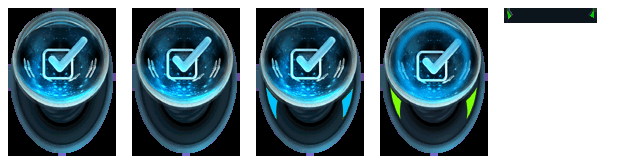
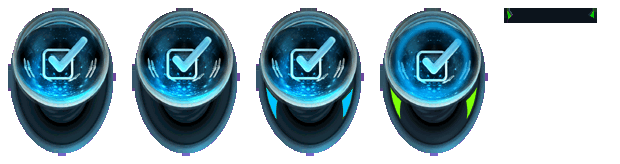
start working on menu1

Changed region(s): [[0.0, 0.4878, 0.7968, 0.9756], [0.0, 0.0305, 0.7968, 0.4268]]

diff --git a/src/Conquest/src/Frontend/Menu1OpeningPreviewScene.cs b/src/Conquest/src/Frontend/Menu1OpeningPreviewScene.cs
@@ -1,8 +1,9 @@
 using System;
+using System.Collections.Generic;
+using System.IO;
 using System.Numerics;
 using ConquestFrontierWarsRay.Core.UI;
 using ConquestFrontierWarsRay.Data;
-using ConquestFrontierWarsRay.Data.Models;
 using ConquestFrontierWarsRay.Data.Models.GT;
 using ConquestFrontierWarsRay.Data.UtfDb;
 using ConquestFrontierWarsRay.Data.VfxAnimation;
@@ -12,9 +13,12 @@ using Raylib_cs;
 namespace ConquestFrontierWarsRay;
 
 internal sealed class Menu1OpeningPreviewScene : Node2D {
+	private readonly UiEventSource _eventSource = new("Menu1OpeningEventSource");
 	private readonly LegacyMenuRoot _legacyMenuRoot = new("LegacyMenuRoot");
 
 	public Menu1OpeningPreviewScene() : base("Menu1OpeningPreviewScene") {
+		_eventSource.ScopeRoot = this;
+		AddChild(_eventSource);
 		AddChild(_legacyMenuRoot);
 
 		try {
@@ -32,8 +36,8 @@ internal sealed class Menu1OpeningPreviewScene : Node2D {
 }
 
 internal sealed class Menu1OpeningPreviewSurface : Node2D {
-	private static readonly Color ButtonMarker = new(102, 208, 142, 255);
 	private static readonly Color AnimationMarker = new(214, 120, 228, 255);
+	private readonly List<AtlasFramesResource> _atlasResources = [];
 	private readonly UtfDbRepository _utfDbRepository;
 	private readonly VfxAnimationDataRepository _vfxRepository;
 	private readonly LegacyRcStringResolver _strings;
@@ -45,29 +49,67 @@ internal sealed class Menu1OpeningPreviewSurface : Node2D {
 		_strings = LegacyRcStringResolver.LoadFromRepo();
 
 		AddStaticNode("Background", opening.Background);
-		AddButtonMarker("Single", opening.Single);
-		AddButtonMarker("Multi", opening.Multi);
-		AddButtonMarker("Intro", opening.Intro);
-		AddButtonMarker("Options", opening.Options);
-		AddButtonMarker("Help", opening.Help);
-		AddButtonMarker("Quit", opening.Quit);
+		var btnSingle = AddButtonNode("Single", opening.Single);
+		var btnMulti = AddButtonNode("Multi", opening.Multi);
+		var btnIntro = AddButtonNode("Intro", opening.Intro);
+		var btnOptions = AddButtonNode("Options", opening.Options);
+		var btnHelp = AddButtonNode("Help", opening.Help);
+		var btnQuit = AddButtonNode("Quit", opening.Quit);
 		AddStaticNode("StaticSingle", opening.StaticSingle);
 		AddStaticNode("StaticMulti", opening.StaticMulti);
 		AddStaticNode("StaticIntro", opening.StaticIntro);
 		AddStaticNode("StaticOptions", opening.StaticOptions);
 		AddStaticNode("StaticHelp", opening.StaticHelp);
-		AddAnimationMarker("AnimMedia", opening.AnimMedia);
-		AddAnimationMarker("AnimSingle", opening.AnimSingle);
-		AddAnimationMarker("AnimMulti", opening.AnimMulti);
-		AddAnimationMarker("AnimOptions", opening.AnimOptions);
-		AddAnimationMarker("AnimQuestion", opening.AnimQuestion);
+		var animMedia = AddAnimationNode("AnimMedia", opening.AnimMedia);
+		var animSingle = AddAnimationNode("AnimSingle", opening.AnimSingle);
+		var animMulti = AddAnimationNode("AnimMulti", opening.AnimMulti);
+		var animOptions = AddAnimationNode("AnimOptions", opening.AnimOptions);
+		var animQuestion = AddAnimationNode("AnimQuestion", opening.AnimQuestion);
+		ConnectButtonHover(btnSingle, animSingle);
+		ConnectButtonHover(btnMulti, animMulti);
+		ConnectButtonHover(btnIntro, animMedia);
+		ConnectButtonHover(btnOptions, animOptions);
+		ConnectButtonHover(btnHelp, animQuestion);
+		btnQuit.Activated += _ => RequestQuit();
 		AddStaticNode("StaticLegal", opening.StaticLegal);
+		AddMusic();
 	}
 
-	private void AddButtonMarker(string label, BUTTON_DATA button) {
-		var width = Math.Max(36f, button.ButtonArea.Right - button.ButtonArea.Left);
-		var height = Math.Max(18f, button.ButtonArea.Bottom - button.ButtonArea.Top);
-		AddMarker(label, new Vector2(button.XOrigin, button.YOrigin), new Vector2(width, height), ButtonMarker);
+	private void AddMusic() {
+		var audioPlayer = new AudioPlayer("AudioPlayer") {
+			Looping = true
+		};
+		var music = new NAudioStreamResource(Path.GetFullPath(Path.Join(RepoPaths.LocateAssetsRoot(), "conquest_frontier_wars_ost", "Conquest Frontier Wars soundtrack - Main Menu Screen Music.mp3")));
+		audioPlayer.SetAudio(music, true, true);
+		audioPlayer.Play();
+	}
+
+	private static void ConnectButtonHover(LegacyButtonNode button, AnimatedSprite2D? animation) {
+		if (animation is null) {
+			return;
+		}
+
+		button.Entered += _ => {
+			animation.Visible = true;
+			animation.Play();
+		};
+		button.Exited += _ => {
+			animation.Visible = false;
+			animation.Pause();
+		};
+	}
+
+	private LegacyButtonNode AddButtonNode(string label, BUTTON_DATA data) {
+		var archetype = ReadTypedEntry<GT_BUTTON>("GT_BUTTON", data.ButtonType);
+		var node = new LegacyButtonNode(label);
+
+		node.ApplyLegacyDefinition(archetype, data, _vfxRepository);
+		if (_strings.TryResolve(data.ButtonText, out var text) && !string.IsNullOrWhiteSpace(text)) {
+			node.Text = text;
+		}
+
+		AddChild(node);
+		return node;
 	}
 
 	private void AddStaticNode(string label, STATIC_DATA data) {
@@ -81,8 +123,28 @@ internal sealed class Menu1OpeningPreviewSurface : Node2D {
 		AddChild(node);
 	}
 
-	private void AddAnimationMarker(string label, ANIMATE_DATA animation) {
-		AddMarker(label, new Vector2(animation.XOrigin, animation.YOrigin), new Vector2(34f, 34f), AnimationMarker);
+	private AnimatedSprite2D? AddAnimationNode(string label, ANIMATE_DATA data) {
+		var archetype = ReadTypedEntry<GT_ANIMATE>("GT_ANIMATE", data.AnimateType);
+		var vfxData = _vfxRepository.Load();
+		if (!vfxData.TryGetAtlasByVfxShapeId(archetype.VfxType, out var atlasEntry)) {
+			AddMarker(label, new Vector2(data.XOrigin, data.YOrigin), new Vector2(34f, 34f), AnimationMarker);
+			return null;
+		}
+
+		var atlas = new AtlasFramesResource(
+			_vfxRepository.GetInterfaceAssetPath(atlasEntry.Value, metaJson: false),
+			_vfxRepository.GetInterfaceAssetPath(atlasEntry.Value, metaJson: true));
+		_atlasResources.Add(atlas);
+
+		var node = new AnimatedSprite2D(atlas.Frames, label) {
+			Position = new Vector2(data.XOrigin, data.YOrigin),
+			Pivot = Vector2.Zero,
+			Loop = true,
+			SpeedFps = 15,
+			Visible = false
+		};
+		AddChild(node);
+		return node;
 	}
 
 	private void AddMarker(string label, Vector2 position, Vector2 size, Color color) {
@@ -98,7 +160,17 @@ internal sealed class Menu1OpeningPreviewSurface : Node2D {
 	private T ReadTypedEntry<T>(string typeName, string fileName) where T : class {
 		var details = _utfDbRepository.ReadEntryDetails("GenData.db", typeName, fileName);
 		return details.TypedValue as T
-			?? throw new InvalidOperationException($"Entry '{typeName}/{fileName}' did not deserialize to {typeof(T).Name}.");
+		       ?? throw new InvalidOperationException(
+			       $"Entry '{typeName}/{fileName}' did not deserialize to {typeof(T).Name}.");
+	}
+
+	protected override void OnDispose() {
+		for (var index = _atlasResources.Count - 1; index >= 0; index--) {
+			_atlasResources[index].Dispose();
+		}
+
+		_atlasResources.Clear();
+		base.OnDispose();
 	}
 }
 

diff --git a/src/Core.UI/src/LegacyButtonNode.cs b/src/Core.UI/src/LegacyButtonNode.cs
@@ -29,6 +29,7 @@ public sealed class LegacyButtonNode : Control, IUiPointerEventHandler {
 	private GT_BUTTON_TYPE _buttonType;
 	private bool _enabled = true;
 	private bool _hovered;
+	private bool _lastHovered;
 	private bool _keyboardFocus;
 	private bool _keyboardPressed;
 	private bool _pointerPressed;
@@ -41,6 +42,9 @@ public sealed class LegacyButtonNode : Control, IUiPointerEventHandler {
 
 	public event Action<LegacyButtonNode>? Activated;
 	public event Action<LegacyButtonNode>? RepeatActivated;
+
+	public event Action<LegacyButtonNode>? Entered;
+	public event Action<LegacyButtonNode>? Exited;
 
 	public uint ControlId { get; set; }
 	public string Text { get; set; } = string.Empty;
@@ -96,6 +100,7 @@ public sealed class LegacyButtonNode : Control, IUiPointerEventHandler {
 		_enabled = enabled;
 		if (!_enabled) {
 			_hovered = false;
+			_lastHovered = _hovered;
 			_keyboardFocus = false;
 			_keyboardPressed = false;
 			_pointerPressed = false;
@@ -107,6 +112,7 @@ public sealed class LegacyButtonNode : Control, IUiPointerEventHandler {
 		_visible = visible;
 		if (!visible) {
 			_hovered = false;
+			_lastHovered = _hovered;
 			_keyboardPressed = false;
 			_pointerPressed = false;
 			_repeatAccumulator = 0f;
@@ -140,9 +146,18 @@ public sealed class LegacyButtonNode : Control, IUiPointerEventHandler {
 			case UiPointerEventKind.Enter:
 			case UiPointerEventKind.Move:
 				_hovered = HitTest(pointerEvent.Position);
+				if (!_lastHovered && _hovered) {
+					EmitEntered();
+				}
+				_lastHovered = _hovered;
 				break;
 			case UiPointerEventKind.Leave:
 				_hovered = false;
+				if (_lastHovered) {
+					EmitExited();
+				}
+
+				_lastHovered = _hovered;
 				if (!_pointerPressed) {
 					_repeatAccumulator = 0f;
 				}
@@ -256,6 +271,14 @@ public sealed class LegacyButtonNode : Control, IUiPointerEventHandler {
 
 	private void EmitActivated() {
 		Activated?.Invoke(this);
+	}
+
+	private void EmitEntered() {
+		Entered?.Invoke(this);
+	}
+
+	private void EmitExited() {
+		Exited?.Invoke(this);
 	}
 
 	private void DrawArt(Rectangle bounds, VisualState state) {

diff --git a/src/Framework/src/NAudioStreamResource.cs b/src/Framework/src/NAudioStreamResource.cs
@@ -1,12 +1,11 @@
-using ConquestFrontierWarsRay.Framework;
 using NAudio.Wave;
 
-namespace ConquestFrontierWarsRay.Framework.TestApp;
+namespace ConquestFrontierWarsRay.Framework;
 
 /// <summary>
 /// Windows-only test-app audio resource backed by NAudio.
 /// </summary>
-internal sealed class NAudioStreamResource : AudioStreamResource {
+public sealed class NAudioStreamResource : AudioStreamResource {
 	private AudioFileReader? _reader;
 	private WaveChannel32? _channel;
 	private WaveOutEvent? _output;

diff --git a/src/Framework/src/Texture2D.cs b/src/Framework/src/Texture2D.cs
@@ -7,7 +7,7 @@ namespace ConquestFrontierWarsRay.Framework;
 /// Base resource for things that can provide a 2D texture slice.
 /// </summary>
 public abstract class Texture2D : Resource {
-	private TextureFilter? _filter;
+	private TextureFilter? _filter = TextureFilter.Bilinear;
 
 	/// <summary>
 	/// Creates a texture resource.
